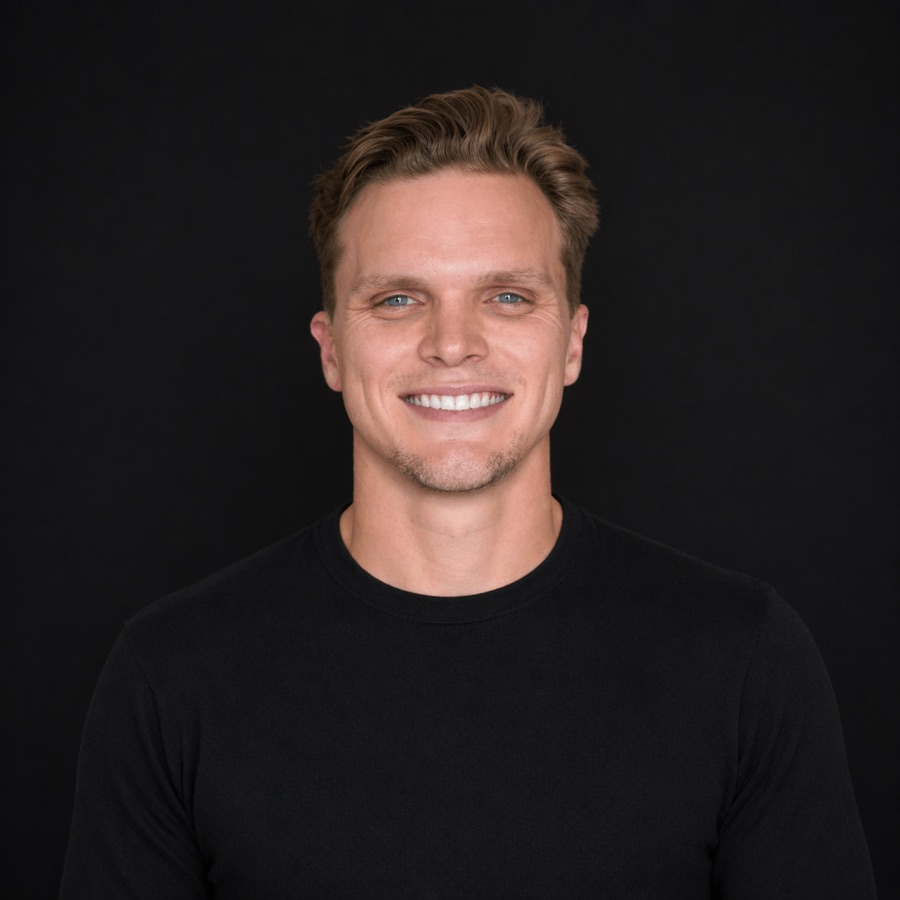
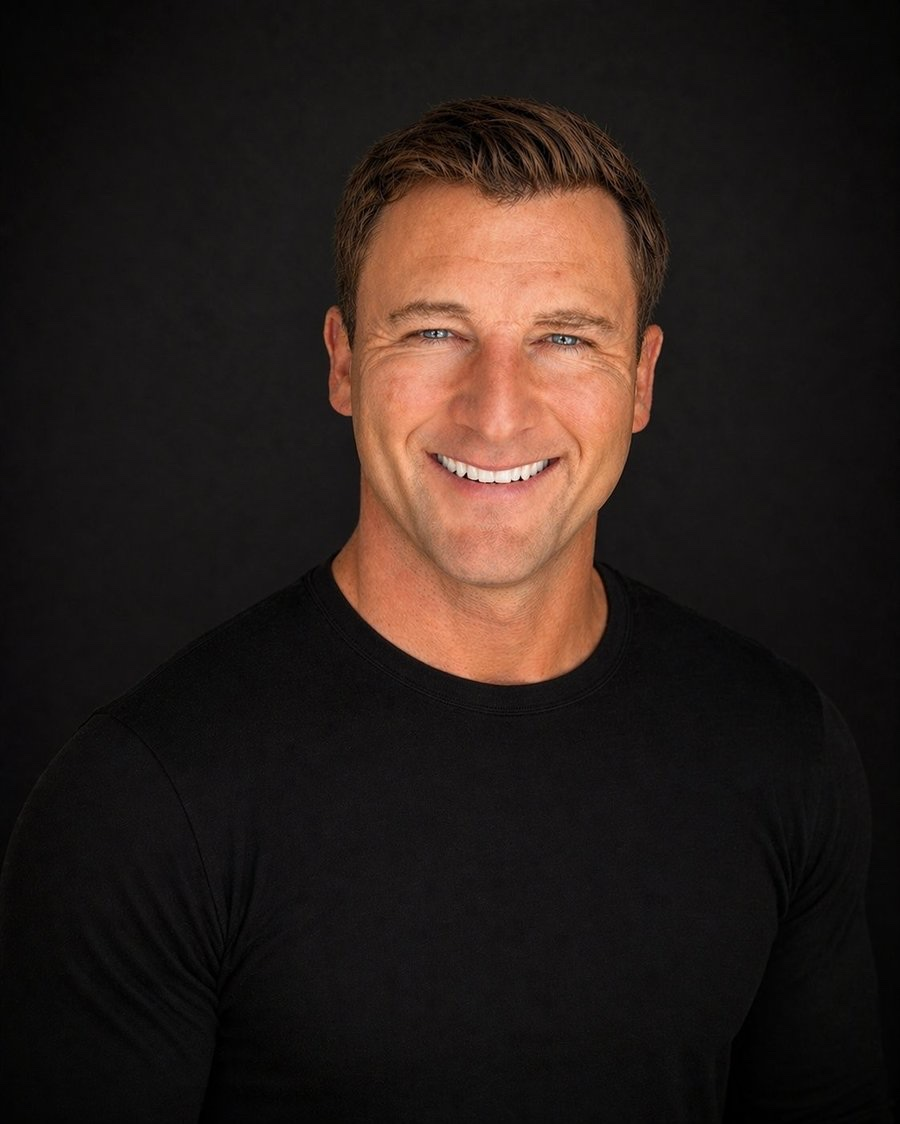
About page people-first: real Jake photo, Evan Jones added as Account Manager, bio modal now shows actual headshots, team section moved up under hero with people-first positioning, culture photo band

Changed region(s): [[0.3422, 0.0933, 0.7467, 0.6844]]

diff --git a/about/index.html b/about/index.html
@@ -3576,6 +3576,33 @@
     <div style="position:absolute;left:18px;bottom:14px;background:rgba(20,20,20,0.72);backdrop-filter:blur(6px);color:#FAF8F3;font-family:ui-monospace,'SF Mono',Menlo,Consolas,monospace;font-size:10px;letter-spacing:0.1em;text-transform:uppercase;padding:6px 12px;border-radius:100px">The Studio &middot; Toronto</div>
   </div>
 </section>
+<!-- ================= TEAM ================= -->
+  <section class="sec">
+    <div class="sec-head">
+      <div class="section-lbl">The Team</div>
+      <h2 class="sec-title">Specialists, not <span class="sem">generalists</span>.</h2>
+<p style="font-size:17px;line-height:1.6;color:#6A686B;margin-top:18px;max-width:520px">What makes Consultus different is not a platform or a process. It is the people: senior specialists who own their craft, on your account from day one.</p>
+    </div>
+    <div class="about-team-grid">
+      <!-- Row 1: Leadership -->
+      <div class="team-member" data-team-id="jake-matzanke" data-media-slug="jake-matzanke" tabindex="0" onclick="openTeamBio('jake-matzanke')" onkeydown="if(event.key==='Enter'||event.key===' '){event.preventDefault();openTeamBio('jake-matzanke')}"><img src="/assets/team/jake-matzanke.jpg" onerror="this.onerror=null;this.style.display='none';this.parentElement.classList.add('img-failed')" alt="Jake Matzanke" loading="lazy"/><div class="team-lbl"><div class="team-name">Jake Matzanke</div><div class="team-role">President &amp; Co-founder</div></div></div>
+      <div class="team-member" data-team-id="grace-natarelli-matzanke" data-media-slug="grace-natarelli-matzanke" tabindex="0" onclick="openTeamBio('grace-natarelli-matzanke')" onkeydown="if(event.key==='Enter'||event.key===' '){event.preventDefault();openTeamBio('grace-natarelli-matzanke')}"><img src="/assets/team/grace-natarelli-matzanke.jpg" onerror="this.onerror=null;this.style.display='none';this.parentElement.classList.add('img-failed')" alt="Grace Natarelli Matzanke" loading="lazy"/><div class="team-lbl"><div class="team-name">Grace Natarelli Matzanke</div><div class="team-role">Co-founder · VP Client Services</div></div></div>
+      <div class="team-member" data-team-id="mo-farazi" data-media-slug="mo-farazi" tabindex="0" onclick="openTeamBio('mo-farazi')" onkeydown="if(event.key==='Enter'||event.key===' '){event.preventDefault();openTeamBio('mo-farazi')}"><img src="/assets/team/mo-farazi.jpg" onerror="this.onerror=null;this.style.display='none';this.parentElement.classList.add('img-failed')" alt="Mo Farazi" loading="lazy"/><div class="team-lbl"><div class="team-name">Mo Farazi</div><div class="team-role">VP Operations</div></div></div>
+      <div class="team-member" data-team-id="shannon-stoneburgh" data-media-slug="shannon-stoneburgh" tabindex="0" onclick="openTeamBio('shannon-stoneburgh')" onkeydown="if(event.key==='Enter'||event.key===' '){event.preventDefault();openTeamBio('shannon-stoneburgh')}"><img src="/assets/team/shannon-stoneburgh.jpg" onerror="this.onerror=null;this.style.display='none';this.parentElement.classList.add('img-failed')" alt="Shannon Stoneburgh" loading="lazy"/><div class="team-lbl"><div class="team-name">Shannon Stoneburgh</div><div class="team-role">VP Marketing</div></div></div>
+      <!-- Row 2: Client + Specialist leads -->
+      <div class="team-member" data-team-id="isaac-ferguson" data-media-slug="isaac-ferguson" tabindex="0" onclick="openTeamBio('isaac-ferguson')" onkeydown="if(event.key==='Enter'||event.key===' '){event.preventDefault();openTeamBio('isaac-ferguson')}"><img src="/assets/team/isaac-ferguson.jpg" onerror="this.onerror=null;this.style.display='none';this.parentElement.classList.add('img-failed')" alt="Isaac Ferguson" loading="lazy"/><div class="team-lbl"><div class="team-name">Isaac Ferguson</div><div class="team-role">Director, Client Services</div></div></div>
+      <div class="team-member" data-team-id="paid-media-lead" data-media-slug="paid-media-lead" tabindex="0" onclick="openTeamBio('paid-media-lead')" onkeydown="if(event.key==='Enter'||event.key===' '){event.preventDefault();openTeamBio('paid-media-lead')}"><svg preserveAspectRatio="xMidYMid slice"><use href="#portrait-illus"/></svg><div class="team-lbl"><div class="team-name">Paid Media Lead</div><div class="team-role">Google &amp; Meta</div></div></div>
+      <div class="team-member" data-team-id="seo-lead" data-media-slug="seo-lead" tabindex="0" onclick="openTeamBio('seo-lead')" onkeydown="if(event.key==='Enter'||event.key===' '){event.preventDefault();openTeamBio('seo-lead')}"><svg preserveAspectRatio="xMidYMid slice"><use href="#portrait-illus"/></svg><div class="team-lbl"><div class="team-name">SEO Lead</div><div class="team-role">Technical &amp; Content</div></div></div>
+      <div class="team-member" data-team-id="cro-web-lead" data-media-slug="cro-web-lead" tabindex="0" onclick="openTeamBio('cro-web-lead')" onkeydown="if(event.key==='Enter'||event.key===' '){event.preventDefault();openTeamBio('cro-web-lead')}"><svg preserveAspectRatio="xMidYMid slice"><use href="#portrait-illus"/></svg><div class="team-lbl"><div class="team-name">CRO &amp; Web Lead</div><div class="team-role">Experimentation &amp; Web</div></div></div>
+      <!-- Row 3: Creative + Data + CRM -->
+      <div class="team-member" data-team-id="creative-director" data-media-slug="creative-director" tabindex="0" onclick="openTeamBio('creative-director')" onkeydown="if(event.key==='Enter'||event.key===' '){event.preventDefault();openTeamBio('creative-director')}"><svg preserveAspectRatio="xMidYMid slice"><use href="#portrait-illus"/></svg><div class="team-lbl"><div class="team-name">Creative Director</div><div class="team-role">Performance Creative</div></div></div>
+      <div class="team-member" data-team-id="analytics-lead" data-media-slug="analytics-lead" tabindex="0" onclick="openTeamBio('analytics-lead')" onkeydown="if(event.key==='Enter'||event.key===' '){event.preventDefault();openTeamBio('analytics-lead')}"><svg preserveAspectRatio="xMidYMid slice"><use href="#portrait-illus"/></svg><div class="team-lbl"><div class="team-name">Analytics Lead</div><div class="team-role">Attribution &amp; Measurement</div></div></div>
+      <div class="team-member" data-team-id="crm-lead" data-media-slug="crm-lead" tabindex="0" onclick="openTeamBio('crm-lead')" onkeydown="if(event.key==='Enter'||event.key===' '){event.preventDefault();openTeamBio('crm-lead')}"><svg preserveAspectRatio="xMidYMid slice"><use href="#portrait-illus"/></svg><div class="team-lbl"><div class="team-name">CRM Lead</div><div class="team-role">Zoho Implementation</div></div></div>
+      <div class="team-member" data-team-id="evan-jones" data-media-slug="evan-jones" tabindex="0" onclick="openTeamBio('evan-jones')" onkeydown="if(event.key==='Enter'||event.key===' '){event.preventDefault();openTeamBio('evan-jones')}"><img src="/assets/team/evan-jones.jpg" alt="Evan Jones" loading="lazy"/><div class="team-lbl"><div class="team-name">Evan Jones</div><div class="team-role">Account Manager</div></div></div>
+    </div>
+  </section>
+
+  
 
 
   <!-- ================= PRINCIPLES ================= -->
@@ -3751,32 +3778,15 @@
     </div>
   </section>
 
-  <!-- ================= TEAM ================= -->
-  <section class="sec">
-    <div class="sec-head">
-      <div class="section-lbl">The Team</div>
-      <h2 class="sec-title">Specialists, not <span class="sem">generalists</span>.</h2>
-    </div>
-    <div class="about-team-grid">
-      <!-- Row 1: Leadership -->
-      <div class="team-member" data-team-id="jake-matzanke" data-media-slug="jake-matzanke" tabindex="0" onclick="openTeamBio('jake-matzanke')" onkeydown="if(event.key==='Enter'||event.key===' '){event.preventDefault();openTeamBio('jake-matzanke')}"><img src="/assets/team/jake-matzanke.jpg" onerror="this.onerror=null;this.style.display='none';this.parentElement.classList.add('img-failed')" alt="Jake Matzanke" loading="lazy"/><div class="team-lbl"><div class="team-name">Jake Matzanke</div><div class="team-role">President &amp; Co-founder</div></div></div>
-      <div class="team-member" data-team-id="grace-natarelli-matzanke" data-media-slug="grace-natarelli-matzanke" tabindex="0" onclick="openTeamBio('grace-natarelli-matzanke')" onkeydown="if(event.key==='Enter'||event.key===' '){event.preventDefault();openTeamBio('grace-natarelli-matzanke')}"><img src="/assets/team/grace-natarelli-matzanke.jpg" onerror="this.onerror=null;this.style.display='none';this.parentElement.classList.add('img-failed')" alt="Grace Natarelli Matzanke" loading="lazy"/><div class="team-lbl"><div class="team-name">Grace Natarelli Matzanke</div><div class="team-role">Co-founder · VP Client Services</div></div></div>
-      <div class="team-member" data-team-id="mo-farazi" data-media-slug="mo-farazi" tabindex="0" onclick="openTeamBio('mo-farazi')" onkeydown="if(event.key==='Enter'||event.key===' '){event.preventDefault();openTeamBio('mo-farazi')}"><img src="/assets/team/mo-farazi.jpg" onerror="this.onerror=null;this.style.display='none';this.parentElement.classList.add('img-failed')" alt="Mo Farazi" loading="lazy"/><div class="team-lbl"><div class="team-name">Mo Farazi</div><div class="team-role">VP Operations</div></div></div>
-      <div class="team-member" data-team-id="shannon-stoneburgh" data-media-slug="shannon-stoneburgh" tabindex="0" onclick="openTeamBio('shannon-stoneburgh')" onkeydown="if(event.key==='Enter'||event.key===' '){event.preventDefault();openTeamBio('shannon-stoneburgh')}"><img src="/assets/team/shannon-stoneburgh.jpg" onerror="this.onerror=null;this.style.display='none';this.parentElement.classList.add('img-failed')" alt="Shannon Stoneburgh" loading="lazy"/><div class="team-lbl"><div class="team-name">Shannon Stoneburgh</div><div class="team-role">VP Marketing</div></div></div>
-      <!-- Row 2: Client + Specialist leads -->
-      <div class="team-member" data-team-id="isaac-ferguson" data-media-slug="isaac-ferguson" tabindex="0" onclick="openTeamBio('isaac-ferguson')" onkeydown="if(event.key==='Enter'||event.key===' '){event.preventDefault();openTeamBio('isaac-ferguson')}"><img src="/assets/team/isaac-ferguson.jpg" onerror="this.onerror=null;this.style.display='none';this.parentElement.classList.add('img-failed')" alt="Isaac Ferguson" loading="lazy"/><div class="team-lbl"><div class="team-name">Isaac Ferguson</div><div class="team-role">Director, Client Services</div></div></div>
-      <div class="team-member" data-team-id="paid-media-lead" data-media-slug="paid-media-lead" tabindex="0" onclick="openTeamBio('paid-media-lead')" onkeydown="if(event.key==='Enter'||event.key===' '){event.preventDefault();openTeamBio('paid-media-lead')}"><svg preserveAspectRatio="xMidYMid slice"><use href="#portrait-illus"/></svg><div class="team-lbl"><div class="team-name">Paid Media Lead</div><div class="team-role">Google &amp; Meta</div></div></div>
-      <div class="team-member" data-team-id="seo-lead" data-media-slug="seo-lead" tabindex="0" onclick="openTeamBio('seo-lead')" onkeydown="if(event.key==='Enter'||event.key===' '){event.preventDefault();openTeamBio('seo-lead')}"><svg preserveAspectRatio="xMidYMid slice"><use href="#portrait-illus"/></svg><div class="team-lbl"><div class="team-name">SEO Lead</div><div class="team-role">Technical &amp; Content</div></div></div>
-      <div class="team-member" data-team-id="cro-web-lead" data-media-slug="cro-web-lead" tabindex="0" onclick="openTeamBio('cro-web-lead')" onkeydown="if(event.key==='Enter'||event.key===' '){event.preventDefault();openTeamBio('cro-web-lead')}"><svg preserveAspectRatio="xMidYMid slice"><use href="#portrait-illus"/></svg><div class="team-lbl"><div class="team-name">CRO &amp; Web Lead</div><div class="team-role">Experimentation &amp; Web</div></div></div>
-      <!-- Row 3: Creative + Data + CRM -->
-      <div class="team-member" data-team-id="creative-director" data-media-slug="creative-director" tabindex="0" onclick="openTeamBio('creative-director')" onkeydown="if(event.key==='Enter'||event.key===' '){event.preventDefault();openTeamBio('creative-director')}"><svg preserveAspectRatio="xMidYMid slice"><use href="#portrait-illus"/></svg><div class="team-lbl"><div class="team-name">Creative Director</div><div class="team-role">Performance Creative</div></div></div>
-      <div class="team-member" data-team-id="analytics-lead" data-media-slug="analytics-lead" tabindex="0" onclick="openTeamBio('analytics-lead')" onkeydown="if(event.key==='Enter'||event.key===' '){event.preventDefault();openTeamBio('analytics-lead')}"><svg preserveAspectRatio="xMidYMid slice"><use href="#portrait-illus"/></svg><div class="team-lbl"><div class="team-name">Analytics Lead</div><div class="team-role">Attribution &amp; Measurement</div></div></div>
-      <div class="team-member" data-team-id="crm-lead" data-media-slug="crm-lead" tabindex="0" onclick="openTeamBio('crm-lead')" onkeydown="if(event.key==='Enter'||event.key===' '){event.preventDefault();openTeamBio('crm-lead')}"><svg preserveAspectRatio="xMidYMid slice"><use href="#portrait-illus"/></svg><div class="team-lbl"><div class="team-name">CRM Lead</div><div class="team-role">Zoho Implementation</div></div></div>
-      <div class="team-member" data-team-id="client-partner" data-media-slug="client-partner" tabindex="0" onclick="openTeamBio('client-partner')" onkeydown="if(event.key==='Enter'||event.key===' '){event.preventDefault();openTeamBio('client-partner')}"><svg preserveAspectRatio="xMidYMid slice"><use href="#portrait-illus"/></svg><div class="team-lbl"><div class="team-name">Client Partner</div><div class="team-role">Strategy &amp; Accounts</div></div></div>
-    </div>
-  </section>
-
-  <!-- ================= PARTNERS / CERTIFICATIONS ================= -->
+  
+<!-- Team culture photo band -->
+<section style="max-width:1200px;margin:0 auto;padding:0 32px 90px">
+  <div class="rv" style="position:relative;border-radius:12px;overflow:hidden;border:1px solid rgba(20,20,20,0.08)">
+    <img src="/assets/team/team-group.jpg" alt="The Consultus Digital team" loading="lazy" style="width:100%;display:block">
+    <div style="position:absolute;left:18px;bottom:14px;background:rgba(20,20,20,0.72);backdrop-filter:blur(6px);color:#FAF8F3;font-family:ui-monospace,'SF Mono',Menlo,Consolas,monospace;font-size:10px;letter-spacing:0.1em;text-transform:uppercase;padding:6px 12px;border-radius:100px">The Team &middot; Off the Clock</div>
+  </div>
+</section>
+<!-- ================= PARTNERS / CERTIFICATIONS ================= -->
   <section class="sec">
     <div class="sec-head">
       <div class="section-lbl">Partners &amp; Certifications</div>
@@ -4127,7 +4137,7 @@ window.TEAM_DATA = {
   'jake-matzanke': {
     name: 'Jake Matzanke',
     role: 'President & Co-founder',
-    img: 'assets/team/jake-matzanke.jpg',
+    img: '/assets/team/jake-matzanke.jpg',
     eyebrow: 'Leadership',
     joined: '2020 · Co-founder',
     location: 'Toronto, ON',
@@ -4137,7 +4147,7 @@ window.TEAM_DATA = {
   'grace-natarelli-matzanke': {
     name: 'Grace Natarelli Matzanke',
     role: 'Co-founder · VP Client Services',
-    img: 'assets/team/grace-natarelli-matzanke.jpg',
+    img: '/assets/team/grace-natarelli-matzanke.jpg',
     eyebrow: 'Leadership',
     joined: '2020 · Co-founder',
     location: 'Toronto, ON',
@@ -4147,7 +4157,7 @@ window.TEAM_DATA = {
   'mo-farazi': {
     name: 'Mo Farazi',
     role: 'VP Operations',
-    img: 'assets/team/mo-farazi.jpg',
+    img: '/assets/team/mo-farazi.jpg',
     eyebrow: 'Leadership',
     joined: '',
     location: 'Toronto, ON',
@@ -4157,7 +4167,7 @@ window.TEAM_DATA = {
   'shannon-stoneburgh': {
     name: 'Shannon Stoneburgh',
     role: 'VP Marketing',
-    img: 'assets/team/shannon-stoneburgh.jpg',
+    img: '/assets/team/shannon-stoneburgh.jpg',
     eyebrow: 'Leadership',
     joined: '',
     location: 'Toronto, ON',
@@ -4167,7 +4177,7 @@ window.TEAM_DATA = {
   'isaac-ferguson': {
     name: 'Isaac Ferguson',
     role: 'Director, Client Services',
-    img: 'assets/team/isaac-ferguson.jpg',
+    img: '/assets/team/isaac-ferguson.jpg',
     eyebrow: 'Client Services',
     joined: '',
     location: 'Toronto, ON',
@@ -4234,16 +4244,7 @@ window.TEAM_DATA = {
     specialties: ['Zoho CRM', 'Automation', 'Sales Enablement'],
     bio: '<p>Open seat. We need a senior CRM lead who has shipped Zoho implementations end to end &mdash; CRM, Campaigns, Analytics, Desk &mdash; and can translate a client\'s sales motion into clean, automated, reportable reality.</p><p>Interested or know someone? Email <strong>[email redacted]</strong>.</p>'
   },
-  'client-partner': {
-    name: 'Client Partner',
-    role: 'Strategy & Accounts',
-    hiring: true,
-    eyebrow: 'We\'re hiring',
-    joined: 'Open seat',
-    location: 'Toronto or St. Petersburg',
-    specialties: ['Client Strategy', 'Account Leadership', 'Retention'],
-    bio: '<p>Open seat. Looking for a senior client partner who can own a book of retained accounts, be the voice clients trust, and lead specialist pods to consistent outcomes quarter over quarter.</p><p>Interested or know someone? Email <strong>[email redacted]</strong>.</p>'
-  }
+  'evan-jones': { name: 'Evan Jones', role: 'Account Manager', img: '/assets/team/evan-jones.jpg', eyebrow: 'Client Services', joined: '', location: 'Toronto, ON', specialties: ['Account Management', 'Client Strategy', 'Reporting'], bio: '<p>Evan is the day-to-day owner of client accounts: the person who knows your numbers, your team, and your next move. <em>Full bio coming soon.</em></p>' }
 };
 
 function openTeamBio(id) {
@@ -4277,8 +4278,10 @@ function openTeamBio(id) {
     portrait.innerHTML = '<div class="tl-hiring-mark">+</div>';
   } else if (storedPhoto) {
     portrait.innerHTML = '<img src="' + storedPhoto + '" alt="' + (d.name || '') + '" style="width:100%;height:100%;object-fit:cover"/>';
-  } else if (d.img && d.img.indexOf('data:') === 0) {
-    portrait.innerHTML = '<img src="' + d.img + '" alt="' + d.name + '" style="width:100%;height:100%;object-fit:cover"/>';
+  } else if (d.img) {
+        var preTL = location.pathname.indexOf('/consultus-site-prototypes/') === 0 ? '/consultus-site-prototypes' : '';
+        var imgSrcTL = (d.img.charAt(0) === '/' && d.img.indexOf('//') !== 0) ? preTL + d.img : d.img;
+        portrait.innerHTML = '<img src="' + imgSrcTL + '" alt="' + d.name + '" style="width:100%;height:100%;object-fit:cover"/>';
   } else {
     // Clean initials placeholder + prompt to drop a photo
     const initials = (d.name || '?').split(' ').map(function(s){return s.charAt(0);}).join('').slice(0,2).toUpperCase();